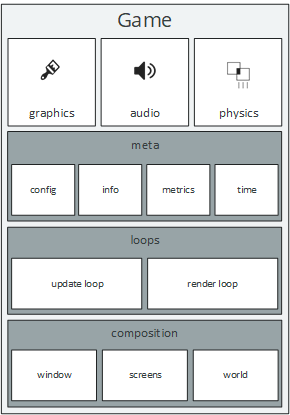
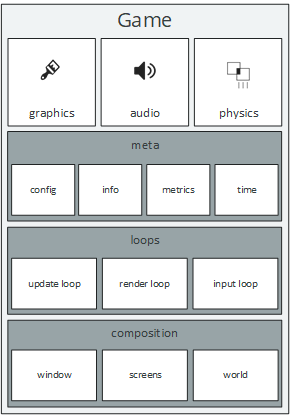
Start to improve Game documentation.

diff --git a/docs/game-api/README.md b/docs/game-api/README.md
@@ -3,7 +3,7 @@
 ![Game API](../images/api-game.png)
 
 The static `Game` class is undoubtedly one of the classes that you will call the most when creating a game with LITIengine.
-It is designed to be the static container that provides access to all important aspects of the engine, e.g. it holds the GameInfo, the RenderEngine, the SoundEngine and many other major components.
+It is designed to be the static container that provides access to all important aspects of the engine., e.g. it holds the GameInfo, the RenderEngine, the SoundEngine and many other major components.
 
 We designed the API such that all important parts that make up the game are directly accessible via the Game class statically.
 To be more technical, it is essentially a collection of core Singleton instances.
@@ -23,6 +23,24 @@ Game.addTerminatedListener(() ->
 });
 
 System.out.println("Game version is: " + Game.info().getVersion());
-
-Game.audio().playSound(Sound.get("test.ogg"));
 ```
+## Major Components
+ * `Game.graphics()`
+ * `Game.audio()`
+ * `Game.physics()`
+
+## Meta Components
+ * `Game.config()`
+ * `Game.info()`
+ * `Game.metrics()`
+ * `Game.time()`
+
+## Game Loops
+ * `Game.loop()`
+ * `Game.renderLoop()`
+ * `Game.inputLoop()`
+
+## Composition
+ * `Game.world()`
+ * `Game.window()`
+ * `Game.screens()`
